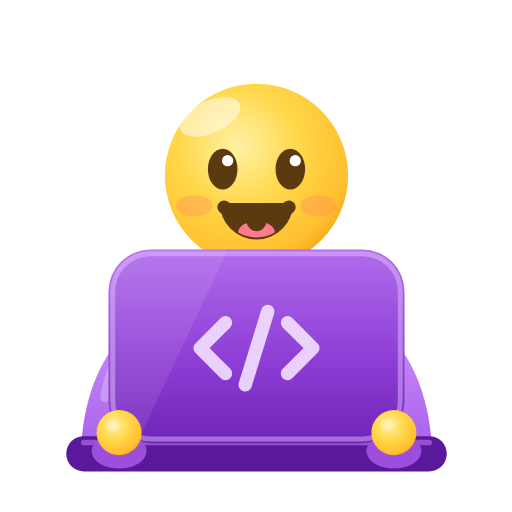
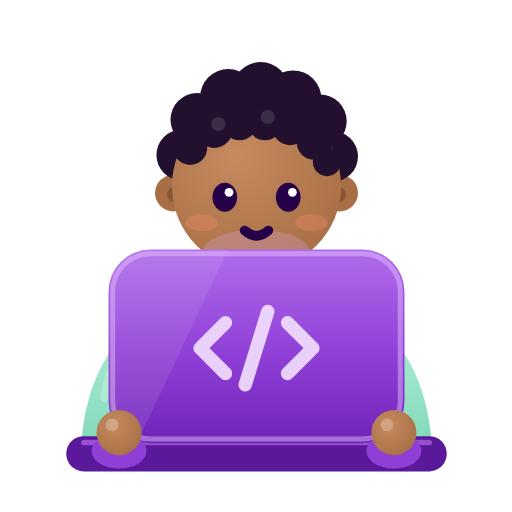
Make the mascot a tiny, gender-free human
Xpert is now a tiny human with a short cap of curls, simple eyes and a
mint hoodie with purple cuffs, typing on the purple laptop. All moods are
unchanged; logo, favicon, app icons and share image are regenerated.

Claude-Session: https://claude.ai/code/session_012Rzw1pCt5xZ8fwkbxETP5X

Changed region(s): [[0.2812, 0.125, 0.7188, 0.5], [0.7188, 0.6875, 0.8438, 0.9062], [0.1562, 0.6875, 0.2812, 0.9062]]

diff --git a/public/xpert.js b/public/xpert.js
@@ -1,4 +1,4 @@
-// Xpert, the brand mascot: an emoji-style character typing away behind a laptop, as a live SVG.
+// Xpert, the brand mascot: a tiny, gender-free human typing away behind a laptop, as a live SVG.
 // Everything is drawn once and CSS shows the state that matches data-mood:
 //   look   - typing calmly, eyes on the screen
 //   typing - typing fast, little bits of code floating up
@@ -15,10 +15,12 @@ let uid = 0;
 
 export function xpert(mood = 'look', { size = 96, cls = '' } = {}) {
   const id = `xp${++uid}`;
-  const INK = '#5b3a10'; // emoji-style warm brown for eyes and mouth
+  const SKIN = '#a86e45';
+  const HAIR = '#22102e';
+  const INK = '#240046';
   const hand = (side, cx) => `
     <g class="xp-hand xp-hand-${side}">
-      <ellipse cx="${cx}" cy="51.6" rx="3.9" ry="2.5" fill="#9d4edd"/>
+      <ellipse cx="${cx}" cy="51.6" rx="3.9" ry="2.5" fill="#8f3fd6"/>
       <circle cx="${cx}" cy="49" r="3.2" fill="url(#${id}-skin)"/>
       <circle cx="${cx - 1}" cy="47.9" r=".9" fill="#fff" opacity=".25"/>
     </g>`;
@@ -26,8 +28,8 @@ export function xpert(mood = 'look', { size = 96, cls = '' } = {}) {
 <svg class="xpert ${cls}" data-mood="${mood}" viewBox="-6 -10 80 78" width="${size}" height="${Math.round(size * 78 / 80)}" aria-hidden="true">
   <defs>
     <linearGradient id="${id}-lid" x1="0" y1="0" x2="0" y2="1"><stop offset="0" stop-color="#b06cec"/><stop offset=".55" stop-color="#8f3fd6"/><stop offset="1" stop-color="#7024b8"/></linearGradient>
-    <linearGradient id="${id}-hood" x1="0" y1="0" x2="0" y2="1"><stop offset="0" stop-color="#d49bff"/><stop offset="1" stop-color="#a45be8"/></linearGradient>
-    <radialGradient id="${id}-skin" cx=".4" cy=".34" r=".72"><stop offset="0" stop-color="#fff1a6"/><stop offset=".45" stop-color="#ffd84a"/><stop offset=".85" stop-color="#ffbf2f"/><stop offset="1" stop-color="#f2a516"/></radialGradient>
+    <linearGradient id="${id}-hood" x1="0" y1="0" x2="0" y2="1"><stop offset="0" stop-color="#bff3e0"/><stop offset="1" stop-color="#78d6b4"/></linearGradient>
+    <radialGradient id="${id}-skin" cx=".38" cy=".32" r=".75"><stop offset="0" stop-color="#c58a5e"/><stop offset="1" stop-color="${SKIN}"/></radialGradient>
     <radialGradient id="${id}-shadow"><stop offset="0" stop-color="#3c096c" stop-opacity=".28"/><stop offset="1" stop-color="#3c096c" stop-opacity="0"/></radialGradient>
     <clipPath id="${id}-lidclip"><rect x="11" y="23" width="42" height="27.5" rx="6"/></clipPath>
   </defs>
@@ -36,18 +38,24 @@ export function xpert(mood = 'look', { size = 96, cls = '' } = {}) {
     <path d="M7 54q0-25 25-26 25 1 25 26z" fill="url(#${id}-hood)"/>
     <path d="M10.5 44q2-11 12-14.5" stroke="#fff" stroke-width="1.4" opacity=".25" fill="none" stroke-linecap="round"/>
     <g class="xp-head">
-      <circle cx="32" cy="12.5" r="13" fill="url(#${id}-skin)"/>
-      <ellipse cx="25.4" cy="4.2" rx="4.6" ry="2.3" fill="#fff" opacity=".5" transform="rotate(-24 25.4 4.2)"/>
-      <ellipse cx="23.2" cy="16.8" rx="2.6" ry="1.5" fill="#ff8a5c" opacity=".35"/><ellipse cx="40.8" cy="16.8" rx="2.6" ry="1.5" fill="#ff8a5c" opacity=".35"/>
+      <circle cx="20.2" cy="15" r="2.6" fill="${SKIN}"/><circle cx="43.8" cy="15" r="2.6" fill="${SKIN}"/>
+      <circle cx="20.4" cy="15.2" r="1.1" fill="#8a5432"/><circle cx="43.6" cy="15.2" r="1.1" fill="#8a5432"/>
+      <g fill="${HAIR}"><circle cx="21.4" cy="9.6" r="3.6"/><circle cx="23.6" cy="4.6" r="3.8"/><circle cx="28" cy="1.4" r="4"/><circle cx="32.6" cy="0.4" r="4"/><circle cx="37.2" cy="1.6" r="4"/><circle cx="41" cy="4.8" r="3.8"/><circle cx="42.8" cy="9.8" r="3.6"/></g>
+      <circle cx="32" cy="14" r="12" fill="url(#${id}-skin)"/>
+      <ellipse cx="32" cy="23.4" rx="7.6" ry="3.2" fill="#e0aaff" opacity=".25"/>
+      <path d="M21 10.5Q22 1.6 32 1.4t11 9.1Q38 6 32 6.2T21 10.5z" fill="${HAIR}"/>
+      <g fill="${HAIR}"><circle cx="22.6" cy="8.6" r="2.4"/><circle cx="26" cy="6" r="2.6"/><circle cx="29.6" cy="5" r="2.5"/><circle cx="33.2" cy="5" r="2.5"/><circle cx="36.8" cy="5.6" r="2.6"/><circle cx="40.2" cy="7.8" r="2.5"/><circle cx="42" cy="10.6" r="2"/></g>
+      <g fill="#fff" opacity=".12"><circle cx="26.6" cy="5.2" r="1"/><circle cx="33.6" cy="4.2" r="1"/></g>
+      <ellipse cx="24.2" cy="19.2" rx="2.3" ry="1.2" fill="#ff8f6e" opacity=".3"/><ellipse cx="39.8" cy="19.2" rx="2.3" ry="1.2" fill="#ff8f6e" opacity=".3"/>
       <g class="xp-face xp-eyes">
-        <ellipse cx="27.2" cy="11.6" rx="2.1" ry="2.9" fill="${INK}"/><ellipse cx="36.8" cy="11.6" rx="2.1" ry="2.9" fill="${INK}"/>
-        <circle cx="27.9" cy="10.4" r=".8" fill="#fff"/><circle cx="37.5" cy="10.4" r=".8" fill="#fff"/>
+        <ellipse cx="27.5" cy="15.6" rx="1.75" ry="2.05" fill="${INK}"/><ellipse cx="36.5" cy="15.6" rx="1.75" ry="2.05" fill="${INK}"/>
+        <circle cx="28.1" cy="14.9" r=".62" fill="#fff"/><circle cx="37.1" cy="14.9" r=".62" fill="#fff"/>
       </g>
-      <path class="xp-face xp-happy" d="M24.8 12.6q2.4-3.2 4.8 0M34.4 12.6q2.4-3.2 4.8 0" stroke="${INK}" stroke-width="1.9" fill="none" stroke-linecap="round"/>
-      <path class="xp-face xp-shut" d="M24.8 12q2.4 1.9 4.8 0M34.4 12q2.4 1.9 4.8 0" stroke="${INK}" stroke-width="1.9" fill="none" stroke-linecap="round"/>
-      <path class="xp-face xp-smile" d="M27.4 17q4.6 4 9.2 0" stroke="${INK}" stroke-width="1.9" fill="none" stroke-linecap="round"/>
-      <g class="xp-face xp-grin"><path d="M26.8 16.4h10.4a5.2 5.2 0 0 1-10.4 0z" fill="${INK}"/><path d="M29.4 20.6a2.6 1.6 0 0 1 5.2 0 5.2 5.2 0 0 1-5.2 0z" fill="#ff7a8a"/></g>
-      <ellipse class="xp-face xp-o" cx="32" cy="18.6" rx="1.5" ry="1.8" fill="${INK}"/>
+      <path class="xp-face xp-happy" d="M25.6 16.2q1.9-2.5 3.8 0M34.6 16.2q1.9-2.5 3.8 0" stroke="${INK}" stroke-width="1.6" fill="none" stroke-linecap="round"/>
+      <path class="xp-face xp-shut" d="M25.6 15.6q1.9 1.5 3.8 0M34.6 15.6q1.9 1.5 3.8 0" stroke="${INK}" stroke-width="1.6" fill="none" stroke-linecap="round"/>
+      <path class="xp-face xp-smile" d="M30.3 20.3q1.7 1.5 3.4 0" stroke="${INK}" stroke-width="1.35" fill="none" stroke-linecap="round"/>
+      <path class="xp-face xp-grin" d="M29.7 19.7h4.6a2.3 2.3 0 0 1-4.6 0z" fill="${INK}"/>
+      <circle class="xp-face xp-o" cx="32" cy="20.6" r="1.05" fill="${INK}"/>
     </g>
   </g>
   <g class="xp-laptop">

diff --git a/README.md b/README.md
@@ -17,7 +17,7 @@ Your tech team, on your timeline. Clients describe what they're building, set a 
 
 **Platform**
 - A minimal landing page: a photo hero with a hire/join finder, a rotating "On demand" line, role photos, "How it works" in one line, pricing packages, a team builder that prices a custom team, and a developer call to action. Prices (senior hourly rates by role, mid/expert multipliers, packages and the promises row) are set in `ROLE_RATES`, `LEVELS`, `PACKAGES` and `PROMISES` in `public/app.js`.
-- **Xpert, the mascot** (`public/xpert.js`): an emoji-style character (a glossy yellow smiley) typing on a laptop, peeking over the lid. It waves hello on the hero, types faster (with bits of code floating up) while a client describes their idea, cheers with both hands up when the idea is long enough (the emoji face keeps it neutral, and the laptop carries a plain glowing `</>` mark), ducks behind the laptop and pops back up when clicked, thinks while the AI scopes a job, celebrates (with confetti) when a job goes live, and dozes on the laptop on the not-found and offline screens. The logo (`public/mascot.svg`) taps the keys a few times on load. Motion is skipped when the visitor prefers reduced motion.
+- **Xpert, the mascot** (`public/xpert.js`): a tiny, gender-free human (short curls, mint hoodie) typing on a laptop, peeking over the lid. It waves hello on the hero, types faster (with bits of code floating up) while a client describes their idea, cheers with both hands up when the idea is long enough (the laptop carries a plain glowing `</>` mark), ducks behind the laptop and pops back up when clicked, thinks while the AI scopes a job, celebrates (with confetti) when a job goes live, and dozes on the laptop on the not-found and offline screens. The logo (`public/mascot.svg`) taps the keys a few times on load. Motion is skipped when the visitor prefers reduced motion.
 - **Team forming:** in the team builder, each person you add drops into one of five seats; on a job page, new team members pop into place and open seats gently pulse.
 - **World map** of where clients and experts are, drawn from a dot grid (`public/images/world-dots.svg`, made from the public-domain Natural Earth land outline) with glowing city pins and arcs.
 - **How it works timeline:** Idea → Team → Launch, filling in as you scroll.
